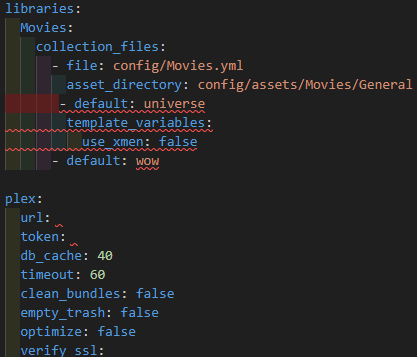
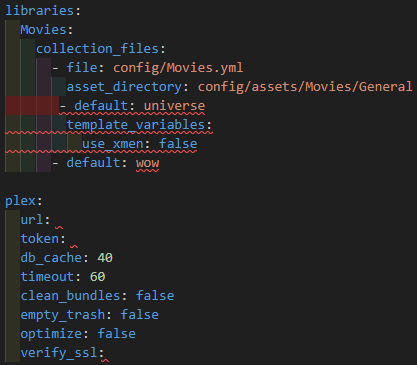
fix image

Changed region(s): [[0.0, 0.5238, 0.4365, 1.0], [0.0, 0.2773, 0.53, 0.493], [0.0, 0.0, 0.5612, 0.2465]]

diff --git a/docs/kometa/yaml.md b/docs/kometa/yaml.md
@@ -295,19 +295,20 @@ libraries:
 
 plex:
   url: #(3)!
-  token: #(3)!
+  token: #(4)!
   db_cache: 40
   timeout: 60
   clean_bundles: false
   empty_trash: false
   optimize: false
-  verify_ssl: #(3)!
+  verify_ssl: #(5)!
 ```
 
 1.  All sequence items must start at the same column (i.e. bad indentation)
 2.  Value is not accepted. Valid values: actor, anilist, aspect, etc...
 3.  Incorrect type. Expected "string" (i.e. there should be a value here)
-
+4.  Incorrect type. Expected "string" (i.e. there should be a value here)
+5.  Incorrect type. Expected "string" (i.e. there should be a value here)
 The above issues may not be super noticeable if you aren't using a code-aware editor, this makes it much more obvious that something may be wrong with the config.yml
 
 You should add this line **at the very top** of your config.yml, eligible editors will use it to check your config.yml is valid against the Kometa validation schema:
